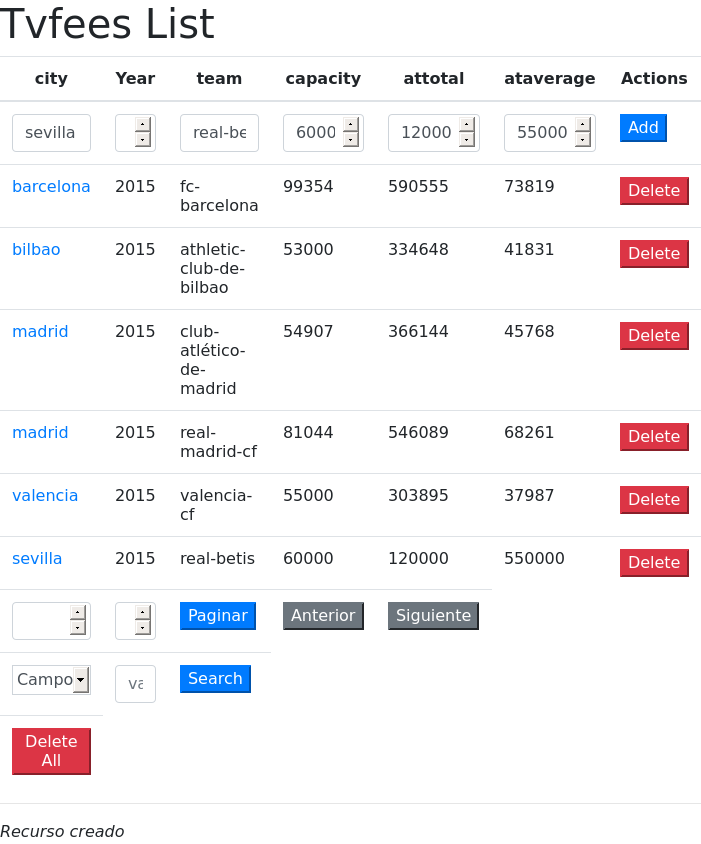
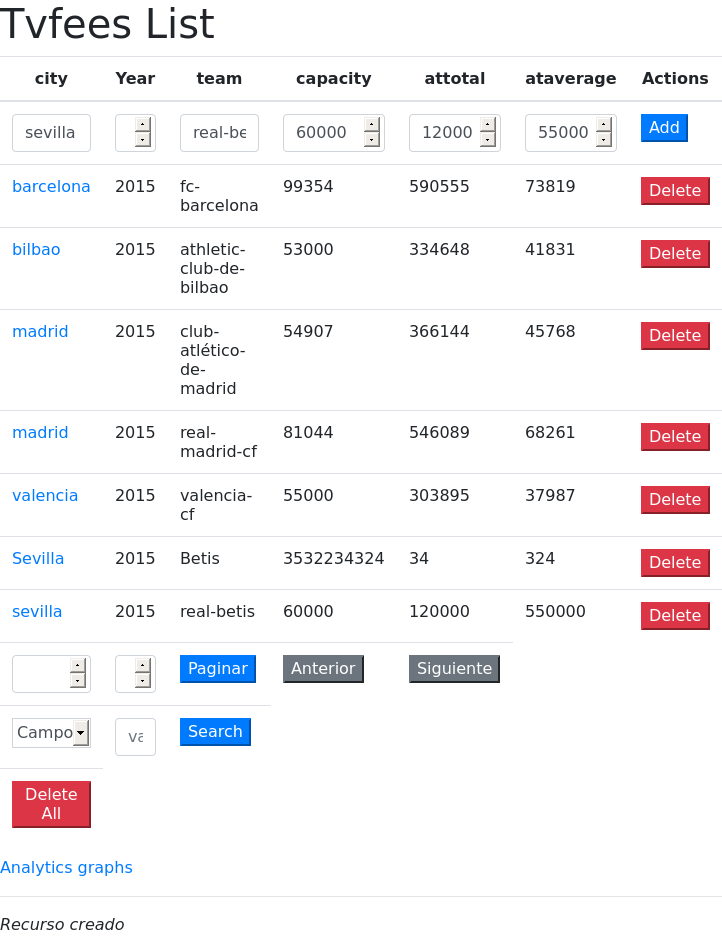
api terminada v1

diff --git a/public/apisCompartidasTvfeesCtrl.js b/public/apisCompartidasTvfeesCtrl.js
@@ -1,0 +1,215 @@
+"use strict"
+/*global angular*/
+/*global Highcharts*/
+angular.module("tvfeesManagerApp")
+    .controller("apisCompartidasTvfeesCtrl", ["$scope", "$http", function($scope, $http) {
+        console.log("List Ctrl initialized!");
+        var miApi = "/api/v1/tvfees-stats";
+        var apiprox = "proxyPablo/api/v1/attacks-data";
+        var apicors = "http://sos1718-08.herokuapp.com/api/v2/crimes-an";
+
+        $http.get(apicors).then(function(response10) {
+            $http.get(miApi).then(function(response20) {
+                var colors = Highcharts.getOptions().colors;
+Highcharts.chart('graficaApi1', {
+
+    chart: {
+        type: 'streamgraph',
+        marginBottom: 30,
+        zoomType: 'x'
+    },
+
+    // Make sure connected countries have similar colors
+    colors: [
+        colors[0],
+        colors[1],
+        colors[2],
+        colors[3],
+        colors[4],
+        
+        Highcharts.color(colors[5]).brighten(0.2).get(),
+        Highcharts.color(colors[5]).brighten(0.1).get(),
+
+        colors[5],
+        colors[6],
+        colors[7],
+        colors[8],
+        colors[9],
+        colors[0],
+        colors[1],
+        colors[3],
+       
+        Highcharts.color(colors[2]).brighten(-0.1).get(),
+        Highcharts.color(colors[2]).brighten(-0.2).get(),
+        Highcharts.color(colors[2]).brighten(-0.3).get()
+    ],
+
+    title: {
+        floating: true,
+        align: 'left',
+        text: 'Stadistics'
+    },
+    subtitle: {
+        floating: true,
+        align: 'left',
+        y: 30,
+        
+    },
+
+    xAxis: {
+        maxPadding: 0,
+        type: 'category',
+        crosshair: true,
+        categories: [
+            response10.data.map(function(d) { return d["province"] }),
+            response20.data.map(function(d) { return d["team"] })
+              
+            
+        ],
+        labels: {
+            align: 'left',
+            reserveSpace: false,
+            rotation: 270
+        },
+        lineWidth: 0,
+        margin: 20,
+        tickWidth: 0
+    },
+
+    yAxis: {
+        visible: false,
+        startOnTick: false,
+        endOnTick: false
+    },
+
+    legend: {
+        enabled: false
+    },
+
+    annotations: [{
+        labels: [{
+            point: {
+                x: 5.5,
+                xAxis: 0,
+                y: 30,
+                yAxis: 0
+            },
+            text: 'Stadistics'
+        }, {
+            point: {
+                x: 18,
+                xAxis: 0,
+                y: 90,
+                yAxis: 0
+            },
+            text: 'Stadistics'
+        }],
+        labelOptions: {
+            backgroundColor: 'rgba(255,255,255,0.5)',
+            borderColor: 'silver'
+        }
+    }],
+
+    plotOptions: {
+        series: {
+            label: {
+                minFontSize: 5,
+                maxFontSize: 15,
+                style: {
+                    color: 'rgba(255,255,255,0.75)'
+                }
+            }
+        }
+    },
+
+    series: [{
+        "name": response10.data.map(function(d) { return d["province"] }),
+        "data": [
+           response10.data.map(function(d) { return d["capacity"] }),
+           response10.data.map(function(d) { return d["attotal"] }),
+           response10.data.map(function(d) { return d["team"] }),
+           response10.data.map(function(d) { return d["onecrime"] }),
+           response10.data.map(function(d) { return d["twocrime"] }),
+           response10.data.map(function(d) { return d["threecrime"] })
+        ]
+    }],
+
+    exporting: {
+        sourceWidth: 800,
+        sourceHeight: 600
+    }
+
+});
+
+               
+            });
+        });
+          $http.get(apiprox).then(function(response10) {
+            $http.get(miApi).then(function(response20) {
+                
+Highcharts.chart('graficaApi2', {
+    chart: {
+        type: 'area'
+    },
+    title: {
+        text: 'Stadistics '
+    },
+    subtitle: {
+        text: 'My stadistics'
+    },
+    xAxis: {
+        categories: response20.data.map(function(d) { return d["team"] }),
+        tickmarkPlacement: 'on',
+        title: {
+            enabled: false
+        }
+    },
+    yAxis: {
+        title: {
+            text: 'Millions'
+        },
+        labels: {
+            formatter: function () {
+                return this.value ;
+            }
+        }
+    },
+    tooltip: {
+        split: true,
+        valueSuffix: ' millions'
+    },
+    plotOptions: {
+        area: {
+            stacking: 'normal',
+            lineColor: '#666666',
+            lineWidth: 1,
+            marker: {
+                lineWidth: 1,
+                lineColor: '#666666'
+            }
+        }
+    },
+    series: [{
+        name: 'Capacity',
+        data: response20.data.map(function(d) { return d["capacity"] })
+    }, {
+        name: 'Attotal',
+        data: response20.data.map(function(d) { return d["attotal"] })
+    }, {
+        name: 'Ataverage',
+        data: response20.data.map(function(d) { return d["ataverage"] })
+    }, {
+        name: 'Killed',
+        data: response10.data.map(function(d) { return d["killed"] })
+    }, {
+        name: 'Injured',
+        data: response10.data.map(function(d) { return d["injured"] })
+    }]
+});
+                
+                
+                
+            });
+        });
+
+    }]);

diff --git a/public/ManagerApp.html b/public/ManagerApp.html
@@ -19,9 +19,18 @@
     <script src="//www.amcharts.com/lib/4/themes/animated.js"></script>
     <script src="https://static.fusioncharts.com/code/latest/fusioncharts.js"></script>
     <script src="https://static.fusioncharts.com/code/latest/fusioncharts.charts.js"></script>
-   
-   
-   
+    <script src="https://code.highcharts.com/highcharts.js"></script>
+    <script src="https://code.highcharts.com/modules/exporting.js"></script>
+    <script src="https://code.highcharts.com/highcharts.js"></script>
+    <script src="https://code.highcharts.com/modules/streamgraph.js"></script>
+    <script src="https://code.highcharts.com/modules/series-label.js"></script>
+    <script src="https://code.highcharts.com/modules/annotations.js"></script>
+    <script src="https://code.highcharts.com/modules/exporting.js"></script>
+
+
+
+
+
 
     <script src="tvfeesManagerApp.js">
     </script>
@@ -34,7 +43,8 @@
     <script src="tvfeesListCtrl.js"></script>
     <script src="tvfeesEditCtrl.js"></script>
     <script src="tvfeesmain-ctrl.js"></script>
-     <script src="apisCompartidasGoalsCtrl.js"></script>
+    <script src="apisCompartidasGoalsCtrl.js"></script>
+    <script src="apisCompartidasTvfeesCtrl.js"></script>
 
 </head>
 

diff --git a/index.js b/index.js
@@ -41,6 +41,14 @@ app.use(bodyParser.json());
 
 
 
+
+
+
+    
+    
+   
+
+
 //PABLO
 var initialteams = [{
         "city": "barcelona",
@@ -149,7 +157,11 @@ var apiServerHost = "https://sos1718-04.herokuapp.com";
     console.log('piped: '+req.baseUrl + req.url);
     req.pipe(request(url)).pipe(res);
     });
-
+    app.use("/proxyPablo", function(req, res) {
+    var url = "http://sos1718-07.herokuapp.com" + req.url;
+    console.log('piped: '+req.baseUrl + req.url);
+    req.pipe(request(url)).pipe(res);
+    });
 
 
 

diff --git a/public/testTvfees/T01-loadData.js b/public/testTvfees/T01-loadData.js
@@ -4,7 +4,7 @@ var path = require("path");
 describe('Data is loaded', function(){
     it('should show some teams', function(){
         browser
-        .get('https://sos1718-01.herokuapp.com/ManagerApp.html#!/tvfees-stats')
+        .get('https://sos1718-01.herokuapp.com/ManagerApp.html#!/tvfees-stats/')
         .then(function(){
             element.all(by.repeater('team in teams'))
             .then(function(teams){

diff --git a/public/testTvfees/T02-addTvfees.js b/public/testTvfees/T02-addTvfees.js
@@ -4,7 +4,7 @@ var path = require("path");
 describe('Add team', function(){
     it('should add a new team', function(){
         browser
-        .get('https://sos1718-01.herokuapp.com/ManagerApp.html#!/tvfees-stats')
+        .get('https://sos1718-01.herokuapp.com/ManagerApp.html#!/tvfees-stats/')
         .then(function(){
             element.all(by.repeater('team in teams'))
             .then(function(initialteams){

diff --git a/public/tvfeesManagerApp.js b/public/tvfeesManagerApp.js
@@ -35,6 +35,9 @@ angular
                 }).when("/goals-stats/compartidas",{
                     templateUrl:"apisCompartidasGoals.html",
                     controller: "apisCompartidasGoalsCtrl"
+                }).when("/tvfees-stats/compartidas",{
+                    templateUrl:"apisCompartidasTvfees.html",
+                    controller: "apisCompartidasTvfeesCtrl"
                 });
                 
 });

diff --git a/public/tvfeesList.html b/public/tvfeesList.html
@@ -63,6 +63,8 @@
     
 </table>
     <div><a href="/ManagerApp.html#!/tvfees-stats/analytics/">Analytics graphs</a></div>
+    <div><a href="/ManagerApp.html#!/tvfees-stats/compartidas/">Integration</a></div>
+
 
 <hr/>
 <h8><i>{{status}}</i></h8>

diff --git a/public/apisCompartidasTvfees.html b/public/apisCompartidasTvfees.html
@@ -1,0 +1,4 @@
+<h1>Integracion</h1>
+
+ <div id="graficaApi2" style="min-width: 310px; height: 400px; margin: 0 auto"></div>
+ <div id="graficaApi1"></div>
